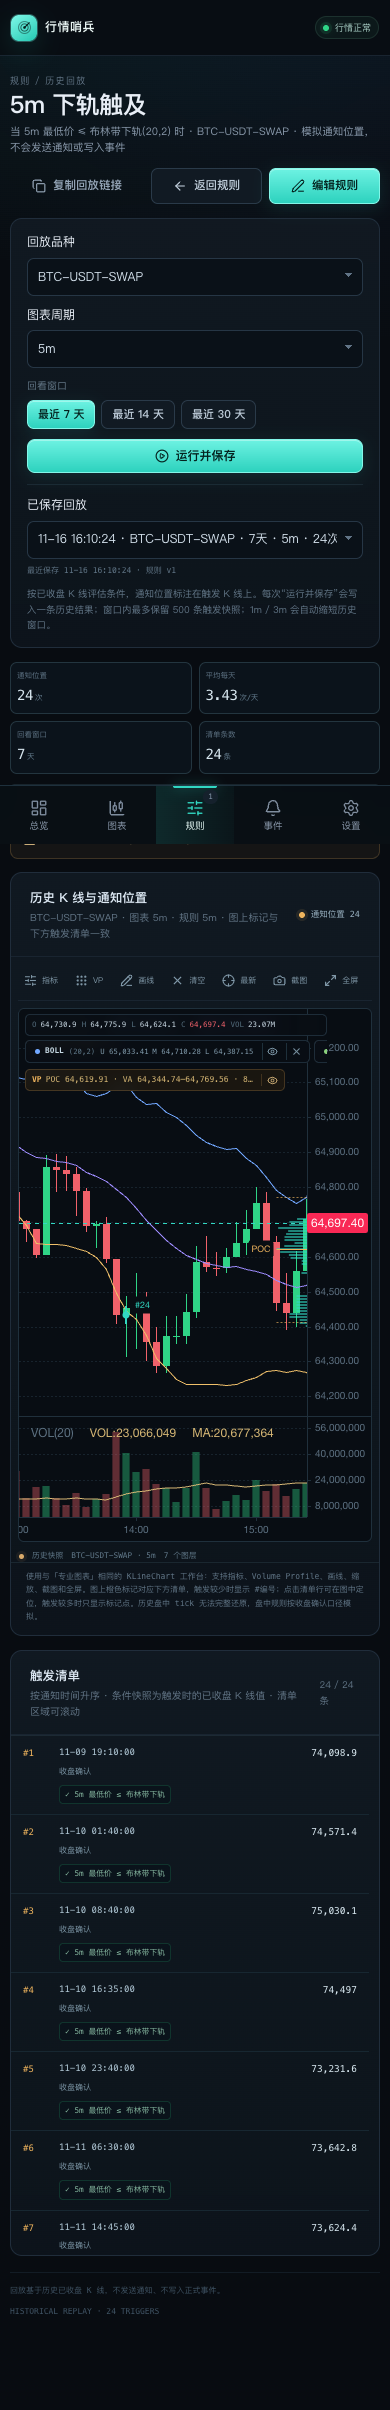
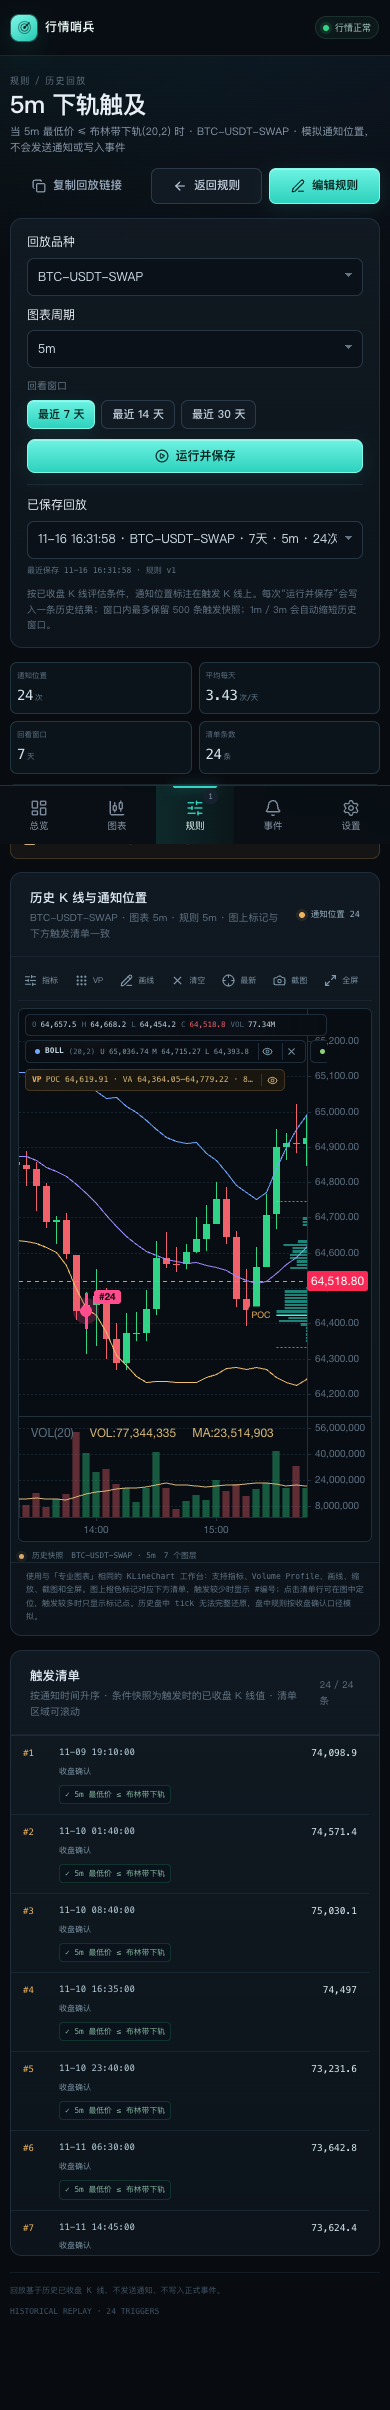
feat(replay): highlight signal markers with hover details

Changed region(s): [[0.0615, 0.4357, 0.9538, 0.6535], [0.0923, 0.5913, 0.1538, 0.6535]]

diff --git a/src/web/components/chart/ReplayProChart.tsx b/src/web/components/chart/ReplayProChart.tsx
@@ -88,7 +88,9 @@ export function ReplayProChart({
   const [drawingOpen, setDrawingOpen] = useState(false);
   const [activeTool, setActiveTool] = useState<DrawingTool | null>(null);
   const [focusMode, setFocusMode] = useState(false);
+  const [hovered, setHovered] = useState<{ event: ChartEventMarker; x: number; y: number } | null>(null);
   const chartRef = useRef<ProChartHandle | null>(null);
+  const stageRef = useRef<HTMLDivElement | null>(null);
   const pageRef = useRef<HTMLDivElement | null>(null);
   const workspaceRef = useRef(workspace);
   workspaceRef.current = workspace;
@@ -268,7 +270,7 @@ export function ReplayProChart({
         <VolumeProfilePanel settings={workspace.volumeProfile} onChange={updateVolumeProfile} onClose={() => setPanel(null)} />
       ) : null}
 
-      <div className="chart-stage replay-chart-stage" data-testid="replay-pro-stage">
+      <div ref={stageRef} className="chart-stage replay-chart-stage" data-testid="replay-pro-stage">
         <ProChart
           ref={chartRef}
           symbol={symbol}
@@ -283,7 +285,12 @@ export function ReplayProChart({
           staticCandles={candles}
           onDrawingsChange={updateDrawings}
           onDrawingDone={() => setActiveTool(null)}
-          onEventSelect={(event) => onEventSelect?.(event)}
+          onEventSelect={(event) => {
+            setHovered(null);
+            onEventSelect?.(event);
+          }}
+          onEventHover={(event, position) => setHovered({ event, x: position.x, y: position.y })}
+          onEventLeave={() => setHovered(null)}
           onCrosshairChange={setReadout}
           onIndicatorLegend={setLegendItems}
           onVisibleProfile={setProfile}
@@ -336,6 +343,39 @@ export function ReplayProChart({
           </div>
         </div>
         {chartError ? <div className="chart-error-toast" role="alert">{chartError}</div> : null}
+        {hovered ? (
+          <div
+            className="replay-signal-tooltip"
+            data-testid="replay-signal-tooltip"
+            style={(() => {
+              const stageWidth = stageRef.current?.clientWidth ?? 800;
+              const stageHeight = stageRef.current?.clientHeight ?? 520;
+              const stageTop = stageRef.current?.getBoundingClientRect().top ?? 0;
+              const tooltipHeight = 176;
+              let top = hovered.y + 14;
+              if (stageTop + top + tooltipHeight > window.innerHeight - 12) {
+                top = hovered.y - tooltipHeight - 14;
+              }
+              return {
+                left: Math.max(8, Math.min(hovered.x + 14, stageWidth - 292)),
+                top: Math.max(8, Math.min(top, stageHeight - tooltipHeight - 8)),
+              };
+            })()}
+          >
+            <div className="rst-head">
+              <span className="rst-badge">{hovered.event.label || (hovered.event.triggerMode === 'intrabar' ? '盘中信号' : '通知信号')}</span>
+              <span className="rst-mode">{hovered.event.triggerMode === 'intrabar' ? '盘中触发' : '收盘确认'}</span>
+            </div>
+            <div className="rst-rule">{hovered.event.ruleName}</div>
+            <div className="rst-grid">
+              <span>时间</span><b>{formatDateTime(hovered.event.triggerAt, false, false)}</b>
+              <span>触发价</span><b>{formatPrice(hovered.event.price)}</b>
+              <span>品种</span><b>{hovered.event.symbol}</b>
+            </div>
+            {hovered.event.note ? <div className="rst-note">{hovered.event.note}</div> : null}
+            <div className="rst-foot">历史模拟信号 · 点击标记定位下方清单</div>
+          </div>
+        ) : null}
       </div>
       <div className="chart-statusbar">
         <span className={`chart-live-dot ${chartStatus}`} />

diff --git a/src/web/lib/chart/eventMarkerOverlay.ts b/src/web/lib/chart/eventMarkerOverlay.ts
@@ -19,30 +19,49 @@ export function registerEventMarkerOverlay(): void {
       const point = coordinates[0];
       const marker = overlay.extendData as ChartEventMarker | undefined;
       if (!point || typeof point.x !== 'number' || typeof point.y !== 'number') return [];
-      const color = marker?.triggerMode === 'intrabar' ? '#efb45d' : '#31d7c2';
+      const intrabar = marker?.triggerMode === 'intrabar';
+      const color = intrabar ? '#ffb02e' : '#ff4d8d';
+      const halo = intrabar ? 'rgba(255,176,46,.22)' : 'rgba(255,77,141,.22)';
+      const label = marker?.label || (intrabar ? '盘中' : '触发');
       const figures: OverlayFigure[] = [
         {
           type: 'line',
-          attrs: { coordinates: [{ x: point.x, y: point.y - 9 }, { x: point.x, y: point.y + 9 }] },
-          styles: { color, size: 2 },
+          attrs: { coordinates: [{ x: point.x, y: point.y - 18 }, { x: point.x, y: point.y + 18 }] },
+          styles: { color, size: 3 },
           ignoreEvent: true,
         },
         {
+          // A soft halo makes the signal readable over candles and indicator lines.
           type: 'circle',
-          attrs: { x: point.x, y: point.y, r: 3.5 },
-          styles: { style: 'fill', color },
+          attrs: { x: point.x, y: point.y, r: 13 },
+          styles: { style: 'fill', color: halo },
+        },
+        {
+          type: 'circle',
+          attrs: { x: point.x, y: point.y, r: 6 },
+          styles: { style: 'fill', color, borderColor: '#fff', borderSize: 1.5 },
         },
       ];
       if (marker?.label !== '') {
         figures.push({
           type: 'text',
           attrs: {
-            x: point.x + 5,
-            y: point.y - 10,
-            text: marker?.label ?? (marker?.triggerMode === 'intrabar' ? '盘中' : '触发'),
+            x: point.x + 8,
+            y: point.y - 14,
+            text: label,
             baseline: 'middle',
           },
-          styles: { color, size: 9, backgroundColor: '#080d13', paddingLeft: 4, paddingRight: 4 },
+          styles: {
+            color: '#120810',
+            size: 10,
+            weight: 700,
+            backgroundColor: color,
+            paddingLeft: 5,
+            paddingRight: 5,
+            paddingTop: 2,
+            paddingBottom: 2,
+            borderRadius: 3,
+          },
           ignoreEvent: true,
         });
       }

diff --git a/src/web/app.css b/src/web/app.css
@@ -491,3 +491,18 @@ h1,h2,h3,p{margin-top:0}
 @media (max-width:700px){
   .replay-control-grid{grid-template-columns:1fr}
 }
+
+/* Replay signal marker hover details */
+.replay-signal-tooltip{position:absolute;z-index:46;width:284px;max-width:calc(100% - 16px);border:1px solid rgba(255,77,141,.4);border-radius:8px;background:rgba(13,10,17,.97);box-shadow:0 14px 38px rgba(0,0,0,.55),0 0 0 1px rgba(255,77,141,.08) inset;padding:10px 11px;pointer-events:none;backdrop-filter:blur(12px)}
+.rst-head{display:flex;align-items:center;justify-content:space-between;gap:8px;margin-bottom:6px}
+.rst-badge{display:inline-flex;align-items:center;border-radius:4px;background:#ff4d8d;color:#17070d;font-family:var(--mono);font-size:9px;font-weight:700;padding:2px 6px;letter-spacing:.02em}
+.rst-mode{color:#c6a5b0;font-size:8.5px;font-family:var(--mono)}
+.rst-rule{color:#f5dce5;font-size:10.5px;font-weight:600;line-height:1.45;margin-bottom:6px;overflow:hidden;text-overflow:ellipsis;white-space:nowrap}
+.rst-grid{display:grid;grid-template-columns:38px 1fr;gap:3px 8px;color:#856d78;font-family:var(--mono);font-size:8.3px}
+.rst-grid b{color:#d9c1cb;text-align:right;font-weight:500;overflow:hidden;text-overflow:ellipsis;white-space:nowrap}
+.rst-note{margin-top:6px;padding-top:6px;border-top:1px solid rgba(255,77,141,.16);color:#b795a2;font-family:var(--mono);font-size:8px;line-height:1.55;max-height:72px;overflow:hidden;white-space:pre-wrap}
+.rst-foot{margin-top:7px;color:#755c67;font-family:var(--mono);font-size:7.5px}
+@media (max-width:900px){
+  .replay-signal-tooltip{width:248px;padding:8px 9px}
+  .rst-foot{display:none}
+}

diff --git a/src/web/components/chart/ProChart.tsx b/src/web/components/chart/ProChart.tsx
@@ -70,6 +70,8 @@ export interface ProChartProps {
   onDrawingsChange: (drawings: SerializedOverlay[]) => void;
   onDrawingDone?: () => void;
   onEventSelect: (event: ChartEventMarker) => void;
+  onEventHover?: (event: ChartEventMarker, position: { x: number; y: number }) => void;
+  onEventLeave?: () => void;
   onCrosshairChange: (readout: OhlcvReadout) => void;
   onIndicatorLegend: (items: IndicatorLegendItem[]) => void;
   onVisibleProfile: (profile: VolumeProfileResult) => void;
@@ -397,6 +399,13 @@ export const ProChart = forwardRef<ProChartHandle, ProChartProps>(function ProCh
         points: [{ timestamp: event.triggerAt, value: event.price }],
         extendData: event,
         onClick: () => propsRef.current.onEventSelect(event),
+        onMouseEnter: (event) => {
+          propsRef.current.onEventHover?.(
+            event.overlay.extendData as ChartEventMarker,
+            { x: event.x ?? 0, y: event.y ?? 0 },
+          );
+        },
+        onMouseLeave: () => propsRef.current.onEventLeave?.(),
       });
     }
   }, [ready, props.events, props.eventMarkerLimit, props.symbol, props.timeframe]);

diff --git a/TEST_REPORT.md b/TEST_REPORT.md
@@ -122,7 +122,7 @@ E2E 同时检查浏览器 console error 与 page error，最终为 0。
 - 历史评估复用同一个 `runTrial` / 指标/表达式实现；只读已收盘 K 线，不使用未来数据。
 - 行情优先查询本地 `candles` 表；只有缺失区间才调用 OKX 补齐，补齐后再次回放不重复请求。
 - 数据源和覆盖情况返回 `TrialDataInfo`：`local` / `local+remote` / `remote`、本地根数、增量根数、覆盖率、首尾缺口；内部缺口拒绝运行，首尾不足允许在连续区间运行并提示。
-- K 线图上显示与清单一致的 `#序号` 标记；点击清单行可定位到对应 K 线，触发过多时只显示标记点。
+- K 线图上的信号点使用高亮洋红/琥珀色、光环、竖线和 `#序号` 标签；鼠标悬浮显示规则、时间、触发价、品种、模式和条件快照，点击标记或清单行可互相定位。
 - 触发清单支持滚动，展示条件周期、指标、比较符和触发时的实际值；单次最多 500 条快照。
 - 回放不发送通知、不写事件；历史盘中 tick 无法还原，盘中规则按收盘口径模拟。
 
@@ -195,6 +195,7 @@ E2E 同时检查浏览器 console error 与 page error，最终为 0。
 | 12 | 图表加载失败后的“重试”按钮设置相同 timeframe，不能触发重新请求 | 增加 chartRefreshKey，错误重试和手动刷新都会重新加载；后台失败保留旧图 |
 | 13 | 回放图表只保留最后 480 根，清单中较早的触发在图上找不到 | 回放返回完整窗口 K 线；专业图表加载完整历史，支持拖动/缩放，并可通过点击清单行定位 |
 | 14 | 触发密集时编号标签互相遮挡 | 超过 40 条触发时图表只显示标记点，清单保留完整编号并明确说明 |
+| 15 | 回放信号点不够醒目，且无法在图上直接查看信号详情 | 信号点改为高亮洋红/琥珀色光环、竖线和标签；增加鼠标悬浮详情卡（规则/时间/价格/品种/模式/条件），并处理视口边缘定位 |
 
 ## 7. 已知限制 / 未覆盖项
 

diff --git a/README.md b/README.md
@@ -271,7 +271,8 @@ npm start
 - 可切换品种、24 个图表周期和 7/14/30 天窗口（1m / 3m 规则会自动缩短）。
 - 每次“运行并保存”都会写入一条本机回放记录，可在“已保存回放”中切换；刷新页面默认载入最近结果，规则版本变化时显示历史版本提示。
 - 回放页使用与「专业图表」相同的 KLineChart 工作台，支持指标、Volume Profile、画线、缩放、截图和全屏；指标参数可编辑并保存在本机。
-- 图表加载完整回放窗口，橙色标记对应下方触发清单；触发较少时显示 `#编号`，点击清单行可在图中定位。
+- 图表加载完整回放窗口，信号点使用高亮洋红/琥珀色标记、光环、竖线和 `#编号`，对应下方触发清单；触发较多时只显示标记点。
+- 鼠标悬浮信号点显示规则、时间、触发价、品种、触发模式与条件快照；点击信号点或清单行可在两者之间定位。
 - 触发清单展示通知时间、触发价、触发模式，以及每条条件在触发时的周期、指标、比较符和实际值。
 - 行情本地优先：先读取 SQLite 中已保存的 K 线，只对缺失区间调用 OKX 增量补齐；补齐后再次回放不会重复请求。
 - 页面显示数据来源（本地缓存 / 本地+增量 / 远程补全）、本地根数、增量根数和覆盖率。内部缺口会阻止运行；仅首尾历史不足时允许在连续可用区间回放并明确提示覆盖率。
@@ -281,6 +282,8 @@ npm start
 ![历史回放](docs/screenshots/rule-replay.png)
 
 手机端：[历史回放移动端截图](docs/screenshots/rule-replay-mobile.png)
+
+信号悬浮详情：[查看截图](docs/screenshots/replay-signal-hover.png)
 
 ### 回放数据一致性
 

diff --git a/CHANGELOG.md b/CHANGELOG.md
@@ -17,7 +17,7 @@ and this project adheres to [Semantic Versioning](https://semver.org/spec/v2.0.0
 - K-line pagination/SSE APIs and chart-only market subscriptions that are merged with rule subscriptions instead of replacing them.
 - Longer candle retention for 1H–1D charts and an external-volume 20k-bar performance benchmark (`npm run chart:perf`).
 - WeChat PushPlus notification channel: selectable Discord/PushPlus channel, masked token storage, optional topic, test message, event-channel persistence and retry routing.
-- Saved-rule historical replay: a dedicated page using the professional KLineChart workspace (24 chart periods, editable indicators, Volume Profile, drawings, screenshot and fullscreen), with numbered trigger markers, per-trigger condition snapshots and a scrollable trigger list.
+- Saved-rule historical replay: a dedicated page using the professional KLineChart workspace (24 chart periods, editable indicators, Volume Profile, drawings, screenshot and fullscreen), with prominent signal markers and hover details (time, price, mode, conditions), per-trigger condition snapshots and a scrollable trigger list.
 - Replay snapshots are persisted in SQLite and reloaded instead of re-running automatically; each explicit run creates a history entry.
 - Local-first replay history: reuse cached candles, incrementally fetch only missing ranges, reject internal gaps, and expose data source/coverage metadata.
 

diff --git a/docs/DESIGN.md b/docs/DESIGN.md
@@ -377,7 +377,7 @@
 - 逐条展开可以看到各条件的当时取值；
 - 明确标注：**只统计规则触发，不代表盈利或策略有效性**；
 - 试跑不发送 Discord 消息，不写入正式事件流。
-- 已保存规则另有独立的历史回放页（`/rules/:id/replay`）：复用专业图表的 KLineChart 工作台（24 个图表周期、可编辑指标、VP、画线、截图、全屏），静态加载完整回放窗口，用 `#序号` 标注触发 K 线；下方清单展示时间、价格、模式与条件快照，点击可定位。回放结果按规则版本保存到 SQLite，进入页面优先载入最近记录；行情本地优先、缺失区间增量补齐，内部缺口拒绝运行。回放不发送通知、不写事件。
+- 已保存规则另有独立的历史回放页（`/rules/:id/replay`）：复用专业图表的 KLineChart 工作台（24 个图表周期、可编辑指标、VP、画线、截图、全屏），静态加载完整回放窗口，用高亮洋红/琥珀色信号点（光环、竖线、`#序号`）标注触发 K 线并支持悬浮详情；下方清单展示时间、价格、模式与条件快照，点击可定位。回放结果按规则版本保存到 SQLite，进入页面优先载入最近记录；行情本地优先、缺失区间增量补齐，内部缺口拒绝运行。回放不发送通知、不写事件。
 
 #### 保存行为
 
